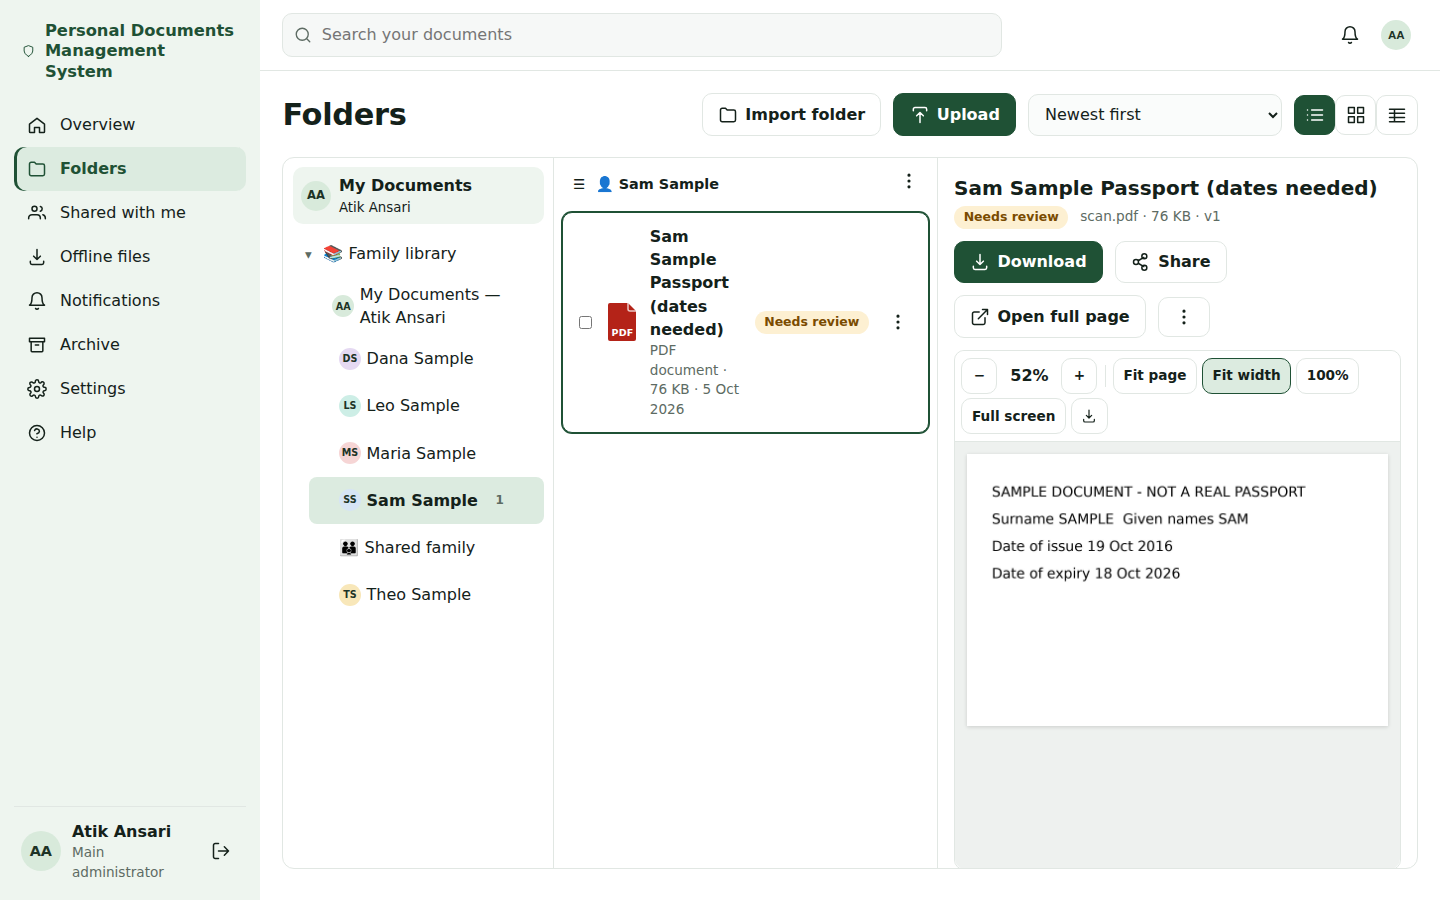
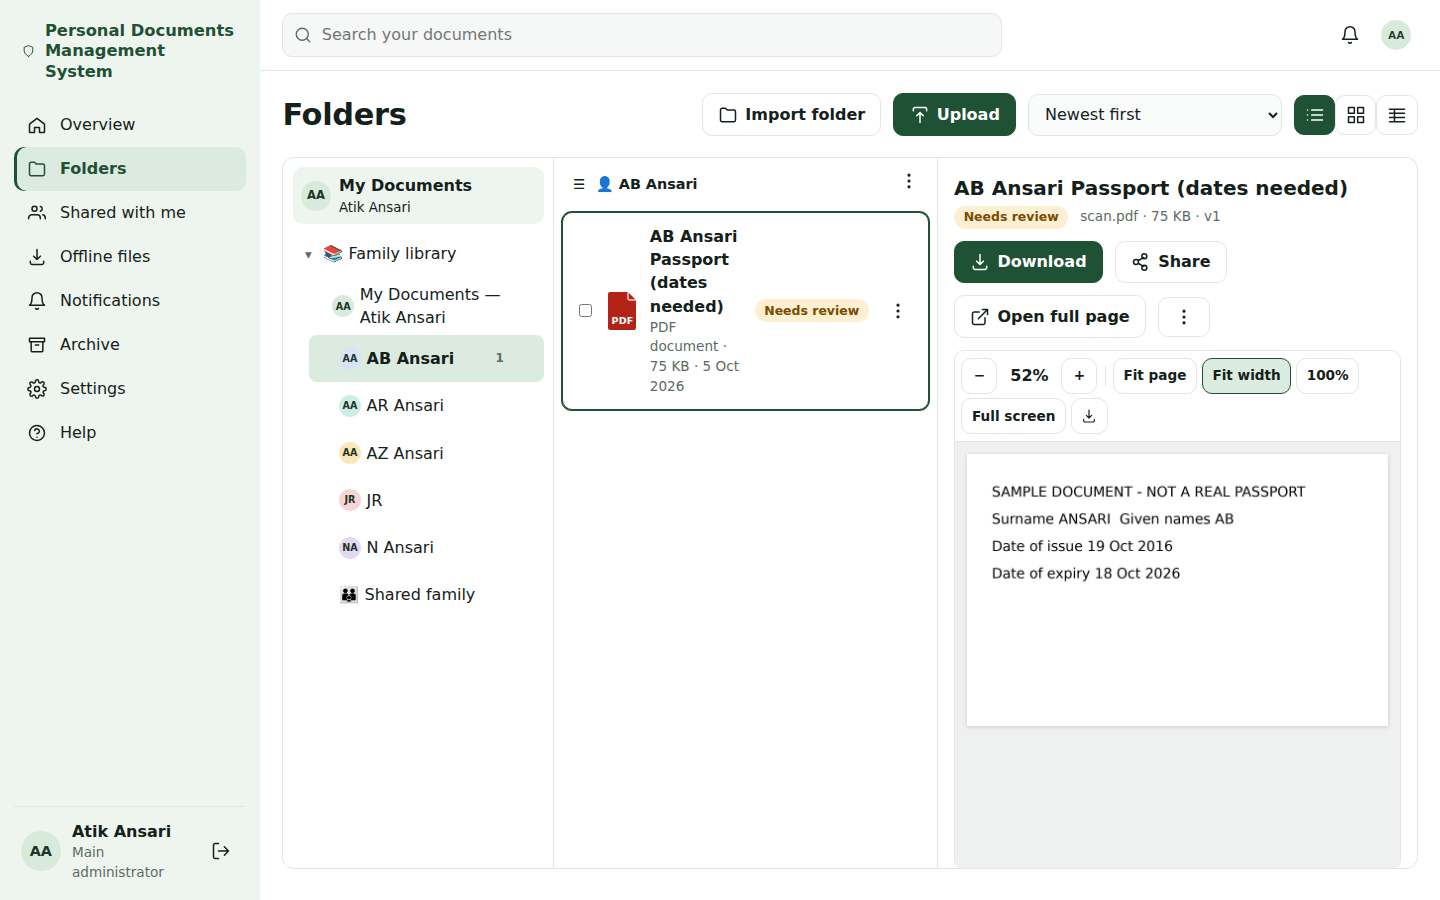
MIT license; demo account names in screenshots (Atik Ansari, JR, AB Ansari, N Ansari, AZ Ansari, AR Ansari)

diff --git a/docs/IMPLEMENTATION_STATUS.md b/docs/IMPLEMENTATION_STATUS.md
@@ -33,7 +33,7 @@ Every internal build stage (1–8) is implemented, plus change set 2026-10 (prof
 | Passkeys / TOTP autofill on real clients | iPhone, Android, Windows Hello, Bitwarden/1Password on the HTTPS origin (tested with a software WebAuthn authenticator) |
 | AT-76/83 real devices | Installed PWA on a real Android phone and iPhone/iPad (automated checks used emulated viewports) |
 | AT-69 real delivery | SMTP and Telegram credentials to see the new templates in a real inbox/chat |
-| Public release | The owner's decision on a license and on making the repository public (not done; see Next steps) |
+| Public release | Making the repository public (owner action in GitHub settings; license chosen: MIT) |
 | AT-98/99 one-line installer for real | A fresh Debian 13 VM/LXC with systemd, and a **public** repository so the raw URL works (tested here with stubbed system commands only) |
 | AT-90/91 real desktop drag | Dragging a folder from Windows Explorer / Finder into Chrome, Edge, Firefox and Safari (tested with a synthetic DataTransfer and unit-tested folder walk) |
 | AT-27 resource-constrained load | Benchmark on the 2 vCPU / 4 GB LXC with realistic multi-page scans |
@@ -64,7 +64,7 @@ None of these are being reported as passed. Exact steps are in `docs/TEST_REPORT
 4. Configure SMTP, Telegram and, optionally, Google. Run the live checks listed in the test report.
 5. Run `scripts/bench_processing.py` on the LXC with realistic scans. Tune `processing.heavy_concurrency` and `PD_PROCESS_MEMORY_LIMIT_MB`.
 6. Tag `v0.1.0` once the gates pass (`docs/RELEASE_CHECKLIST.md`).
-7. Public release (owner decisions): choose a license (add `LICENSE`), enable GitHub private vulnerability reporting, run `scripts/privacy_check.sh --history`, then change the repository visibility in GitHub settings.
+7. Public release (owner decisions): enable GitHub private vulnerability reporting, run `scripts/privacy_check.sh --history`, then change the repository visibility in GitHub settings.
 
 ## Session log
 

diff --git a/README.md b/README.md
@@ -3,6 +3,7 @@
 [![CI](https://github.com/atikansari-ghr/Personal-DM/actions/workflows/ci.yml/badge.svg)](https://github.com/atikansari-ghr/Personal-DM/actions/workflows/ci.yml)
 ![Debian 13](https://img.shields.io/badge/Debian-13%20trixie-A81D33?logo=debian&logoColor=white)
 ![Self-hosted](https://img.shields.io/badge/self--hosted-no%20cloud-2E7D32)
+[![License: MIT](https://img.shields.io/badge/License-MIT-yellow.svg)](LICENSE)
 [![Ko-fi](https://img.shields.io/badge/Ko--fi-support-FF5E5B?logo=ko-fi&logoColor=white)](https://ko-fi.com/atikansari)
 
 **Your family's passports, visas, IDs, certificates and property papers in one private library, on your own
@@ -118,8 +119,8 @@ Not included: personal WhatsApp notifications (planned) and any cloud storage.
 
 ## Screenshots
 
-All screenshots show the real application with synthetic data: the demo owner "Atik Ansari" and the fictional
-"Sample" family with synthetic files. They are regenerated by the browser tests (`scripts/e2e.sh`).
+All screenshots show the real application with demo data only: the account names Atik Ansari, JR, AB Ansari,
+N Ansari, AZ Ansari and AR Ansari, and synthetic files. They are regenerated by the browser tests (`scripts/e2e.sh`).
 
 | | |
 |---|---|
@@ -316,9 +317,8 @@ installation.
 
 ## License
 
-**No license has been chosen yet.** Until the author publishes one, the code is "all rights reserved": you may read
-it, but you may not reuse it without permission. Third-party components keep their own licences (for example
-Django, React and PDF.js, see their package metadata).
+[MIT](LICENSE) © Atik Ansari. Third-party components keep their own licences (for example Django, React and
+PDF.js; see their package metadata).
 
 ## Author
 

diff --git a/docs/TEST_REPORT.md b/docs/TEST_REPORT.md
@@ -35,7 +35,7 @@ Date: 2026-10-03, updated 2026-10-05 (change set J). Revision: the branch head a
 | `npm audit --omit=dev` | **0 vulnerabilities** after upgrading PDF.js 5.7 → 6.4.299 (high: script execution from a malicious PDF) and React Router 6 → 7.18 (open redirect) |
 | veraPDF 1.30.2 on OCRmyPDF output (`tests/test_pdfa.py`) | PDF/A-2b **compliant**; plain PDFs correctly rejected |
 
-The end-to-end flow covers: the setup wizard creating six accounts, sign-in, uploading a synthetic image-only "passport" scan, OCR, dashboard, the three-panel browser with PDF preview, confirming suggested dates (generated name "Sam Sample Passport (2016–2026)"), search, admin notification and family settings, switching to the blue theme, bundled help, and a second user on a mobile viewport (forced password change, independent green theme, no horizontal overflow, manifest checks). It also asserts there are no uncaught page errors.
+The end-to-end flow covers: the setup wizard creating six accounts, sign-in, uploading a synthetic image-only "passport" scan, OCR, dashboard, the three-panel browser with PDF preview, confirming suggested dates (generated name "AB Ansari Passport (2016–2026)"), search, admin notification and family settings, switching to the blue theme, bundled help, and a second user on a mobile viewport (forced password change, independent green theme, no horizontal overflow, manifest checks). It also asserts there are no uncaught page errors.
 
 Screenshots of the real application with synthetic data are in `docs/screenshots/`.
 

diff --git a/docs/guides/folder-imports.md b/docs/guides/folder-imports.md
@@ -12,7 +12,7 @@ Each top-level folder is a mapping unit. For each one you decide:
 
 - **A person's folder** — documents become that person's. By default they land at the top of the person's area;
   click the folder button (**Top of their folder**) to pick an existing **sub-folder inside that person's area**
-  instead, for example *Sam Sample / Education*. Several source folders may map to the same person.
+  instead, for example *AB Ansari / Education*. Several source folders may map to the same person.
 - **Another folder** — for shared material (trips, house papers). Pick the destination folder in the folder picker
   and choose the owning account.
 - **Skip**.
@@ -25,7 +25,7 @@ person's folder" when the source folder is named after the person.
 
 Choosing a destination changes **where the import starts**, nothing else. Every nested source folder is recreated
 beneath it exactly as it is — nothing is flattened. Example: `Old/Address Update 22July2026/letter.pdf` mapped to
-*Sam Sample / Parity* with *keep "Old"* ticked becomes `Family library / Sam Sample / Parity / Old / Address Update
+*AB Ansari / Parity* with *keep "Old"* ticked becomes `Family library / AB Ansari / Parity / Old / Address Update
 22July2026 / letter`.
 
 **Check & preview** shows the **final folder structure**: every folder the import will use, with the number of files

diff --git a/docs/REQUIREMENTS.md b/docs/REQUIREMENTS.md
@@ -154,7 +154,7 @@ Source: `CHANGE_PROMPT_PERSONAL_DOCUMENTS_PUBLIC_RELEASE` sections 21–24. Acce
 | VIEW-2 | Viewer keeps authorisation, never uses external viewers, fails safely on damaged files with Download available. |
 | PUB-1 | Public authorship: Atik Ansari as sole author/maintainer; no AI assistant as author; Git history not rewritten. |
 | PUB-2 | Secret/privacy audit of the tree and history; comprehensive .gitignore; safe env example; automated check. |
-| PUB-3 | Public README with sanitised screenshots, user guide, administrator guide, CONTRIBUTING, SECURITY; license decision flagged. |
+| PUB-3 | Public README with sanitised screenshots, user guide, administrator guide, CONTRIBUTING, SECURITY; MIT license (owner decision). |
 
 ## Change set J (2026-10): browsing, OCR quality, one-line installer, public presentation
 

diff --git a/docs/RELEASE_CHECKLIST.md b/docs/RELEASE_CHECKLIST.md
@@ -44,7 +44,7 @@ Copy into the release PR/issue and tick every item. A skipped mandatory item is 
 - [ ] Screenshots refreshed if the UI changed
 
 ## Public repository (only when the owner decides to publish)
-- [ ] License chosen and `LICENSE` added (README updated)
+- [x] License: MIT (`LICENSE`, README badge and section)
 - [ ] `scripts/privacy_check.sh --history` passes; any secret ever committed has been rotated and the history cleaned with the owner's approval
 - [ ] Screenshots in `docs/images/screenshots/` reviewed by eye: only synthetic names, documents, domains and IPs
 - [ ] README feature claims match `docs/IMPLEMENTATION_STATUS.md`; no AI assistant listed as author

diff --git a/docs/guides/expiry-rules.md b/docs/guides/expiry-rules.md
@@ -93,12 +93,12 @@ In-app, email and Telegram use the same layout:
 
 ```
 Notification from Personal Documents Management System
-Account: sam (Sam Sample)
+Account: son1 (AB Ansari)
 
 2 files imported to your account
 Imported by Atik Ansari.
 
-Folder: Family library / Sam Sample / Education
+Folder: Family library / AB Ansari / Education
 Date/time: 05 Oct 2026 14:31 (Asia/Riyadh)
 
 Files:

diff --git a/CONTRIBUTING.md b/CONTRIBUTING.md
@@ -43,5 +43,5 @@ documentation.
 
 ## License
 
-No license has been chosen yet (see the README). By contributing you agree that the maintainer may publish your
-contribution under the license eventually chosen for the project.
+The project is licensed under the [MIT License](LICENSE). By contributing you agree that your contribution is
+published under the same license.

diff --git a/docs/USER_GUIDE.md b/docs/USER_GUIDE.md
@@ -1,7 +1,7 @@
 # User guide
 
 For everyone in the family. The same help is built into the app under **Help**; the linked topic guides go deeper.
-All examples use the synthetic "Sample" family.
+Examples use the demo accounts Atik Ansari, JR, AB Ansari, N Ansari, AZ Ansari and AR Ansari.
 
 ## 1. Signing in {#sign-in}
 
